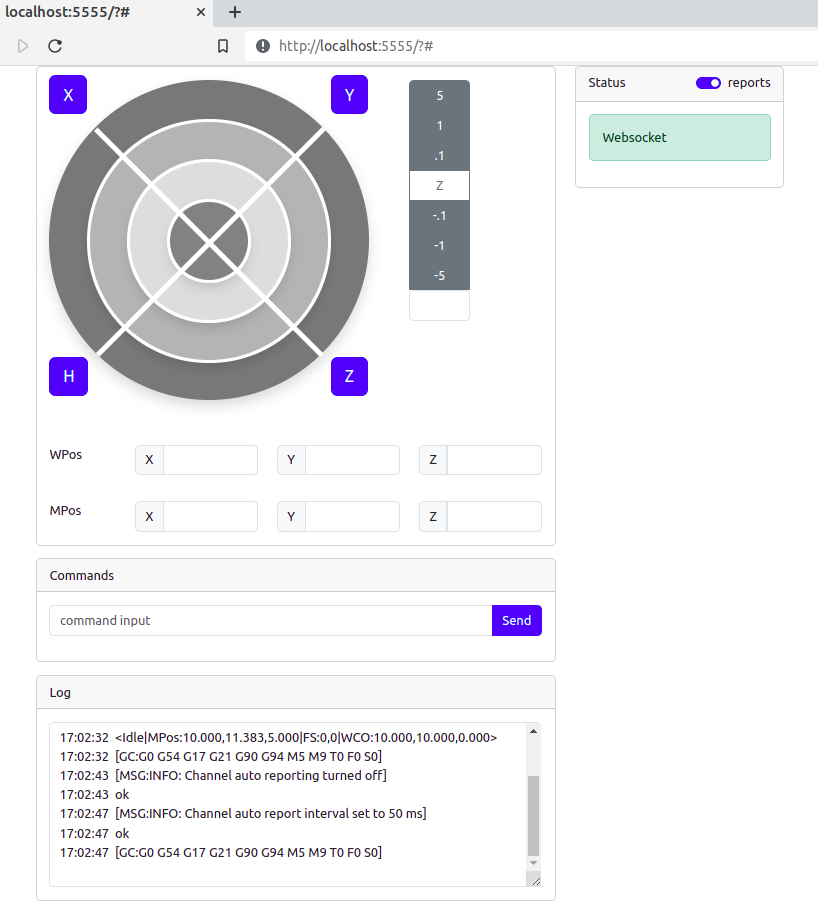
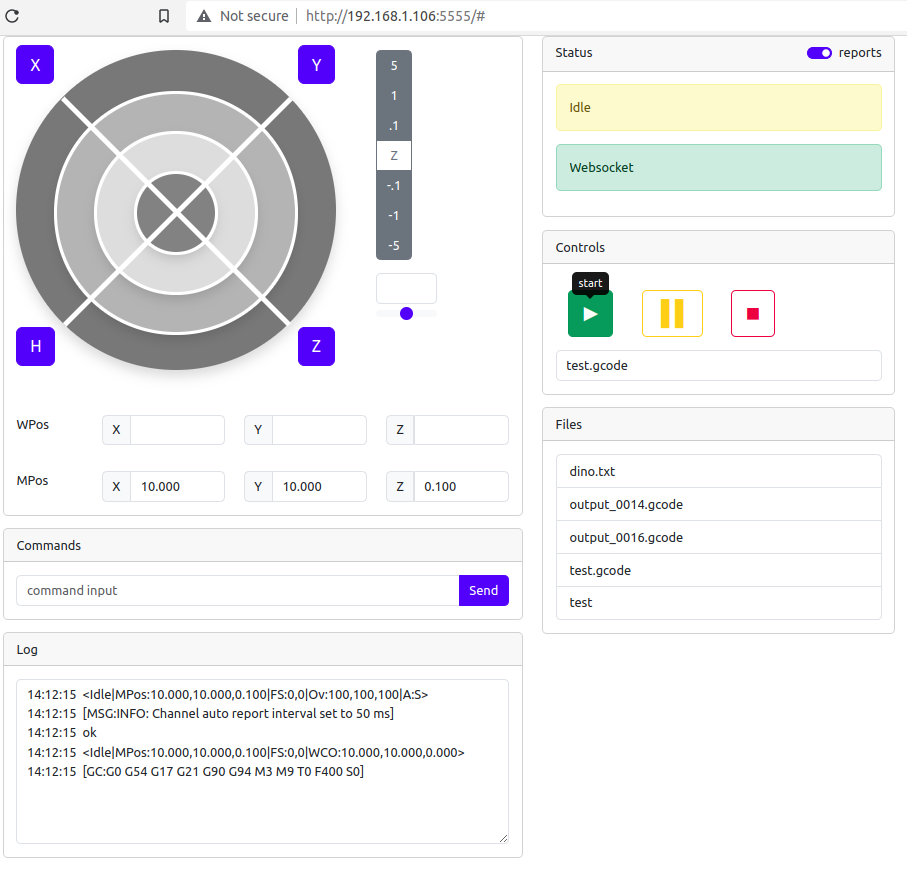
Add controls. files/ssd

diff --git a/index.html b/index.html
@@ -73,14 +73,14 @@
                             <span class="btns btm">
                             <button type="button" class="btn btn-primary btn-lg homebtn"
                                     onclick="homing(this, '')"
-                            data-bs-toggle="tooltip" data-bs-placement="top"
-                                data-bs-custom-class="custom-tooltip"
-                                data-bs-title="Home All">H</button>
+                                    data-bs-toggle="tooltip" data-bs-placement="top"
+                                    data-bs-custom-class="custom-tooltip"
+                                    data-bs-title="Home All">H</button>
                             <button type="button" class="btn btn-primary btn-lg homebtn rightposition"
                                     onclick="homing(this, 'Z')"
-                            data-bs-toggle="tooltip" data-bs-placement="top"
-                                data-bs-custom-class="custom-tooltip"
-                                data-bs-title="Home Z">Z</button>
+                                    data-bs-toggle="tooltip" data-bs-placement="top"
+                                    data-bs-custom-class="custom-tooltip"
+                                    data-bs-title="Home Z">Z</button>
                         </span>
 
                         </div> <!--/jog-->
@@ -110,9 +110,10 @@
                                    readonly>
 
                             <div class="range">
-                                <input type="range" class="form-range" id="jogspeed" data-bs-toggle="tooltip" data-bs-placement="right"
-                                data-bs-custom-class="custom-tooltip"
-                                data-bs-title="Jog speed (F)"/></div>
+                                <input type="range" class="form-range" id="jogspeed" data-bs-toggle="tooltip"
+                                       data-bs-placement="right"
+                                       data-bs-custom-class="custom-tooltip"
+                                       data-bs-title="Jog speed (F)"/></div>
 
 
                         </div>
@@ -200,7 +201,7 @@
         </div> <!--/coll-->
 
         <div class="col">
-            <div class="card ">
+            <div class="card mb-3 ">
                 <div class="card-header">
                     Status
                     <div class="form-check form-switch float-end">
@@ -212,9 +213,44 @@
                     <div class="alert alert-danger" id="machine_status" role="alert">&nbsp;</div>
                     <div class="alert alert-danger" id="ws_status" role="alert">Websocket</div>
                 </div>
-
-
             </div>
+
+            <div class="card mb-3">
+                <div class="card-header">Controls</div>
+                <div class="card-body">
+                    <div class="d-grid gap-2 d-md-block">
+                        <button class="btn btn-outline-success  m-3" type="button"><span style='font-size:30px;' data-bs-toggle="tooltip" data-bs-placement="top"
+                               data-bs-custom-class="custom-tooltip"
+                               data-bs-title="start"> &#x25BA;</span>
+                        </button>
+                        <button class="btn btn-outline-warning  m-3" type="button"><span style='font-size:30px;'
+                        data-bs-toggle="tooltip" data-bs-placement="top"
+                               data-bs-custom-class="custom-tooltip"
+                               data-bs-title="pause">&#9616;&nbsp;&#9612; </span>
+                        </button>
+                        <button class="btn btn btn-outline-danger  m-3" type="button"><span
+                                style='font-size:30px; padding:5px;'
+                        data-bs-toggle="tooltip" data-bs-placement="top"
+                               data-bs-custom-class="custom-tooltip"
+                               data-bs-title="stop">&#x25A0; </span>
+                        </button>
+                        <input class="form-control" id="selected_file" type="text" value="" aria-label="selected file or macro" readonly
+                               data-bs-toggle="tooltip" data-bs-placement="top"
+                               data-bs-custom-class="custom-tooltip"
+                               data-bs-title="selected file or macro">
+
+                    </div>
+                </div>
+            </div>
+
+            <div class="card mb-3">
+                <div class="card-header">Files</div>
+                <div class="card-body">
+                    <div class="list-group" id="files"></div>
+                </div>
+            </div>
+
+
         </div>
     </div>
 </div>
@@ -227,10 +263,14 @@
 <script type="application/javascript" src="/js/commands.js"></script>
 <script type="application/javascript" src="/js/status.js"></script>
 <script type="application/javascript" src="/js/init.js"></script>
+<script type="application/javascript" src="/js/files.js"></script>
 
 <script>
     const tooltipTriggerList = document.querySelectorAll('[data-bs-toggle="tooltip"]')
     const tooltipList = [...tooltipTriggerList].map(tooltipTriggerEl => new bootstrap.Tooltip(tooltipTriggerEl))
+
+
+
 
 
 

diff --git a/js/files.js b/js/files.js
@@ -1,0 +1,29 @@
+
+function list_files(){
+    fetch('http://'+ IPADDRESS +'/upload?path=', {
+       headers: {
+          'Accept': 'application/json'
+       }
+    })
+       .then(response => response.text())
+       .then(text => display_files(text))
+}
+
+
+function display_files(files){
+    const obj = JSON.parse(files);
+    var files_div = document.getElementById('files');
+    files_div.innerHTML = "";
+    var files_display ='';
+    for (const file in obj['files']){
+      files_display +='<a href="#" class="list-group-item list-group-item-action" onclick="select_file(this)">' + obj['files'][file].name +'</a>';
+    }
+    files_div.innerHTML = files_display;
+}
+list_files();
+
+
+function select_file(el){
+    const selected_file = document.getElementById('selected_file');
+    selected_file.value = el.innerHTML;
+}

diff --git a/js/status.js b/js/status.js
@@ -27,6 +27,18 @@ function displayMachineStatus(statusmsg){
         machineStatusEl.classList.add("alert-warning");
         machineStatusEl.innerHTML = "Idle";
     }
+    if (msg == "hold"){
+        machineStatusEl.classList.remove("alert-danger");
+        machineStatusEl.classList.remove("alert-success");
+        machineStatusEl.classList.add("alert-warning");
+        machineStatusEl.innerHTML = "Hold";
+    }
+        if (msg == "run"){
+        machineStatusEl.classList.remove("alert-danger");
+        machineStatusEl.classList.remove("alert-success");
+        machineStatusEl.classList.add("alert-warning");
+        machineStatusEl.innerHTML = "Run";
+    }
 }
 
 

diff --git a/js/websocket.js b/js/websocket.js
@@ -1,5 +1,5 @@
-
-const socket = new WebSocket('ws://192.168.1.105:81');
+const IPADDRESS = '192.168.1.105'
+const socket = new WebSocket('ws://'+ IPADDRESS +':81');
 
 socket.onopen = function(e) {
   console.log("[open] Connection established");
@@ -37,3 +37,5 @@ socket.onclose = function(event) {
 socket.onerror = function(error) {
   console.log(`[error]`);
 };
+
+

diff --git a/js/commands.js b/js/commands.js
@@ -34,3 +34,7 @@ function homing(el, axis ){
 }
 
 
+function SendRealtimeCmd(code) {
+    var cmd = String.fromCharCode(code)
+    SendPrinterCommand(cmd, false, null, null, code, 1);
+}

diff --git a/css/style.css b/css/style.css
@@ -104,3 +104,6 @@ transform-origin: left;
     border: 1px solid #fff;
 
 }
+
+.icon-ff:before { content: "\23E9" }
+.icon-ff--standard:before { content: "\23E9\FE0E" }
